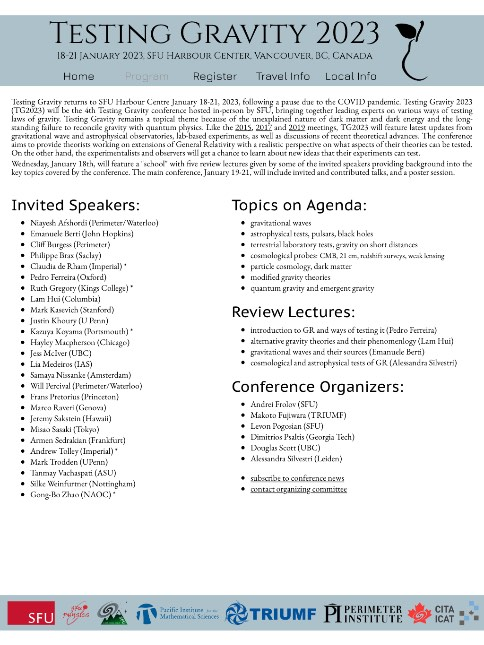
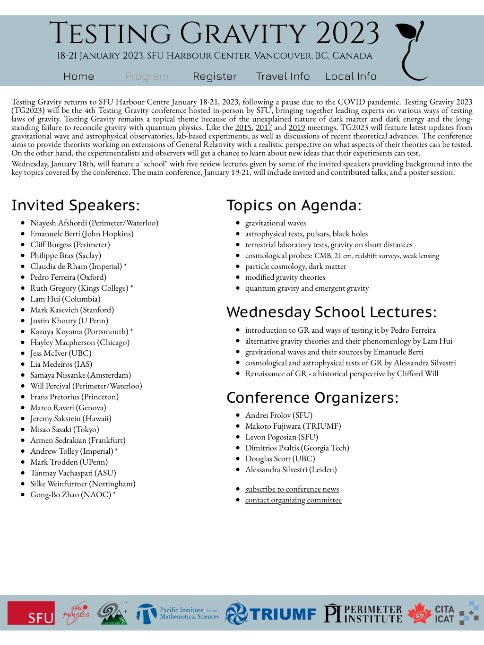
Updated the Wednesday School information and changed the titles

Changed region(s): [[0.4649, 0.3101, 0.9298, 0.8062]]

diff --git a/content/organizers.html b/content/organizers.html
@@ -18,13 +18,14 @@ ul { margin-top: 0.3em !important; }
 <li>quantum gravity and emergent gravity
 </ul></font>
 
-<font face="PT Sans Caption" size="6">Review Lectures:
+<font face="PT Sans Caption" size="6">Wednesday School Lectures:
 </font>
 <font face="EB Garamond" size="4"><ul>
-        <li>introduction to GR and ways of testing it (Pedro Ferreira)
-        <li>alternative gravity theories and their phenomenology (Lam Hui)
-        <li>gravitational waves and their sources (Emanuele Berti)
-        <li>cosmological and astrophysical tests of GR (Alessandra Silvestri)
+        <li>introduction to GR and ways of testing it by Pedro Ferreira
+        <li>alternative gravity theories and their phenomenology by Lam Hui
+        <li>gravitational waves and their sources by Emanuele Berti
+        <li>cosmological and astrophysical tests of GR by Alessandra Silvestri
+        <li>Renaissance of GR - a historical perspective by Clifford Will
 </ul></font>
 
 <!--
